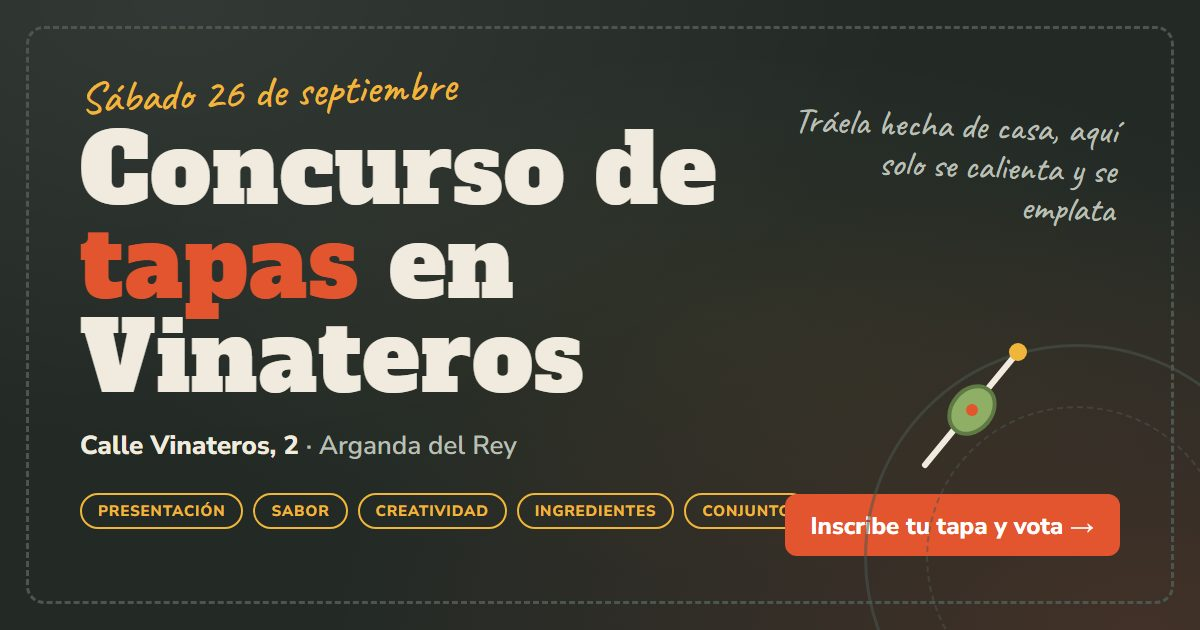
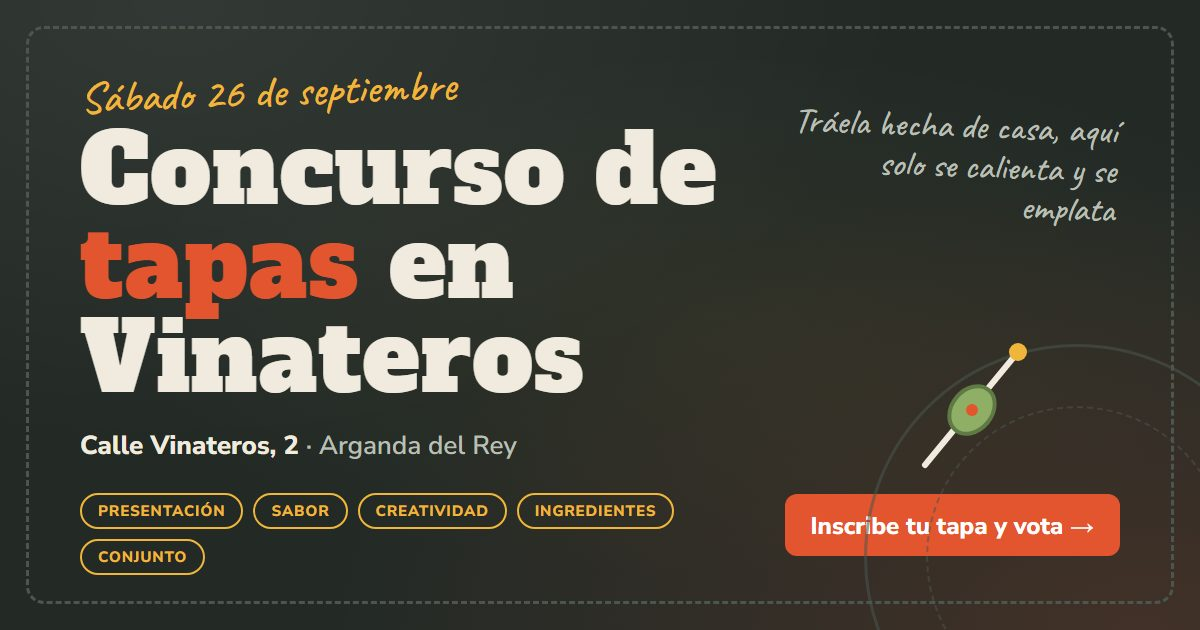
Flyer horizontal: criterios en dos líneas

Changed region(s): [[0.0617, 0.8444, 0.185, 0.9349], [0.555, 0.754, 0.6783, 0.8444]]

diff --git a/flyer.html b/flyer.html
@@ -39,7 +39,7 @@
   .h .eyebrow{font-size:44px; margin-bottom:10px}
   .h h1{font-size:96px; max-width:760px}
   .h .dir{font-size:26px; margin-top:22px}
-  .h .tags{margin-top:30px; max-width:860px}
+  .h .tags{margin-top:30px; max-width:690px}
   .h .tag{font-size:15px}
   .h .cta{position:absolute; right:80px; bottom:74px; font-size:24px}
   .h .nota{position:absolute; right:84px; top:70px; font-size:36px; text-align:right; max-width:330px; transform:rotate(2deg)}
